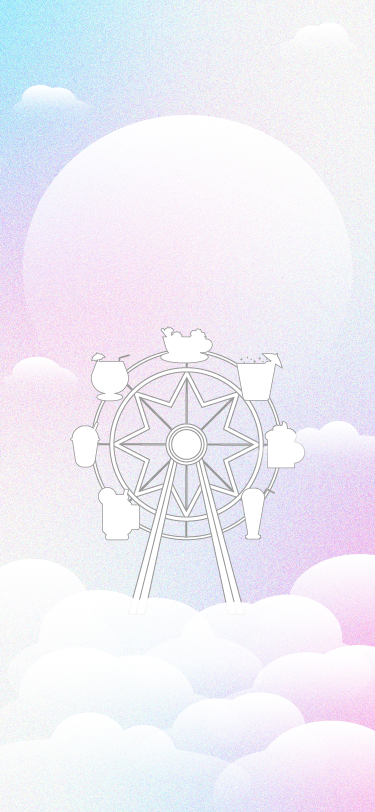
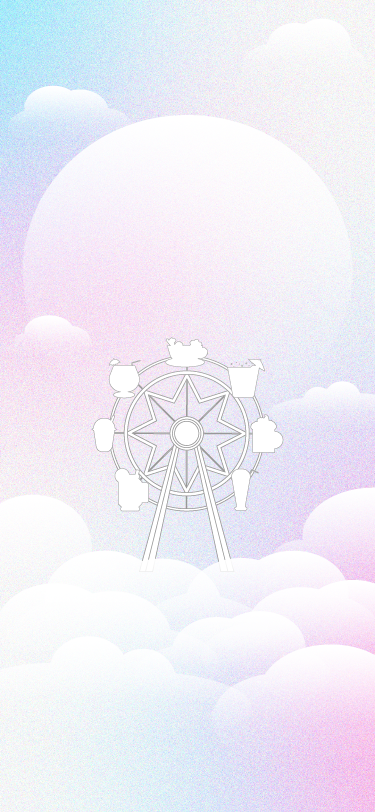
แก้รายละเอียดเพิ่มเติม เพราะบางหน้ายังเกินอยู่ เลื่อนหัวข้อให้ขยับไปข้างบนมากขึ้น ใส่แตะเพื่อไปต่อ พอแตะแล้วให้ขึ้นมาทีเดียวเลย

diff --git a/style.css b/style.css
@@ -50,6 +50,8 @@ body {
     flex-direction: column;
     align-items: center;
     position: relative;
+    justify-content: flex-start; /* เริ่มจากขอบบน */
+    padding-top: 20px;           /* ห่างจากขอบบน 20px (แก้เลขนี้ที่เดียว เปลี่ยนทั้งเว็บ!) */
 }
 
 /* --- ส่วนหัว (Header) --- */
@@ -643,9 +645,9 @@ body {
 
 /* รูปน้องแก้วกอดเมฆ */
 .cup-img-q10 {
-    width: 350px; /* ปรับขนาดรูปตามความเหมาะสม */
+    width: 270px; /* ปรับขนาดรูปตามความเหมาะสม */
     height: auto;
-    margin-top: -60px;
+    margin-top: -50px;
     margin-bottom: -10px;
     filter: drop-shadow(0 4px 6px rgba(0,0,0,0.1));
 }
@@ -678,8 +680,8 @@ body {
 }
 
 .page-q10 .next-btn {
-    margin-top: -80px;     /* เว้นห่างจากปุ่มตัวเลือกล่าสุด */
-    margin-bottom: -20px;  /* เว้นห่างจากขอบล่างจอ */
+    margin-top: 30px;     /* เว้นห่างจากปุ่มตัวเลือกล่าสุด */
+    margin-bottom: 0px;  /* เว้นห่างจากขอบล่างจอ */
     z-index: 10;          /* ให้ลอยอยู่เหนือทุกอย่าง */
     
     /* ถ้าอยากให้ปุ่มดูเด่นเหมือนในรูป */
@@ -1099,11 +1101,11 @@ body {
 /* ข้อความ "สวัสดี (ชื่อ)" */
 .greeting-text {
     font-family: 'IBM Plex Sans Thai', sans-serif;
-    font-size: 35px; /* ปรับขนาดตัวหนังสือตรงนี้ */
+    font-size: 30px; /* ปรับขนาดตัวหนังสือตรงนี้ */
     font-weight: 400;
     color: #000;
     text-align: center;
-    margin-top: -65px;
+    margin-top: -70px;
     margin-bottom: 50px; /* ระยะห่างจากปุ่ม */
     
     /* Animation ให้ข้อความค่อยๆ โผล่มา */
@@ -1166,6 +1168,14 @@ body {
     margin-top: 0;
 }
 
+/* แต่งคำใบ้ให้แตะหน้าจอ */
+.tap-hint {
+    font-size: 14px;
+    color: #888888;
+    margin-bottom: 22px;
+    text-align: center;
+}
+
 /* หัวข้อใหญ่ */
 .story-heading {
     font-family: 'IBM Plex Sans Thai', sans-serif;
@@ -1191,7 +1201,7 @@ body {
 
 /* ปุ่มถัดไป */
 .page-story1 .next-btn {
-    margin-top: 20px;
+    margin-top: 0px;
     background-color: white;
     color: #000;
     box-shadow: 0 4px 15px rgba(0,0,0,0.1);
@@ -1687,18 +1697,18 @@ body {
 
 .story-desc-static {
     font-family: 'IBM Plex Sans Thai', sans-serif;
-    font-size: 19px;
+    font-size: 17px;
     color: #000;
     text-align: center;
     margin-top: 0px;
 }
 .line-3 {
-    margin-top: 17px;    /* ดันให้ห่างจากรูป (Spacer) เยอะๆ */
-    font-size: 19px;   /* หรือจะปรับให้ใหญ่กว่าเพื่อนก็ได้ */
+    margin-top: -10px;    /* ดันให้ห่างจากรูป (Spacer) เยอะๆ */
+    font-size: 17px;   /* หรือจะปรับให้ใหญ่กว่าเพื่อนก็ได้ */
 }
 
 /* พื้นที่ว่างสำหรับรูปชิงช้าสวรรค์ (Spacer) */
-.wheel-spacer {
+.nowheel-spacer { 
     /* 👇 ปรับความสูงตรงนี้ เพื่อเว้นที่ให้พอดีกับรูปชิงช้าในพื้นหลัง */
     height: 300px; 
     width: 100%;
@@ -1777,7 +1787,7 @@ body {
 
 /* ปุ่มถัดไป */
 .page-afterpoem3 .next-btn {
-    margin-top: 10px;
+    margin-top: -10px;
     background-color: white;
     color: #000;
     box-shadow: 0 4px 15px rgba(0,0,0,0.1);
@@ -1795,12 +1805,14 @@ body {
     padding-bottom: 40px;
     min-height: 100vh;
     box-sizing: border-box;
+    /* ✅ เติม 2 บรรทัดนี้ลงไปครับ! */
+    justify-content: flex-start; /* สั่งให้เนื้อหาทั้งหมดเริ่มเรียงจากด้านบนสุด */
+    padding-top: 20px; /* <--- ตัวคุมระยะ! ยิ่งเลขน้อย ทั้งหน้าจะยิ่งลอยสูงขึ้น (ลองเปลี่ยนเป็น 20px หรือ 10px ดูได้ครับ) */
 }
 
 .app-title {
     font-family: var(--font-eng);
     font-size: 17px;
-    margin-top: -30px;
     margin-bottom: 20px;
     text-align: center;
     letter-spacing: 1px;
@@ -1832,7 +1844,7 @@ body {
 }
 .question-text {
     font-family: 'IBM Plex Sans Thai', sans-serif;
-    font-size: 19px;
+    font-size: 18px;
     font-weight: 400;
     margin-bottom: 5px;
     line-height: 1.4;
@@ -1869,7 +1881,7 @@ box-shadow: 0 4px 6px rgba(0,0,0,0.05);
 
 
 .option-card img {
-    width: 100%;
+    width: 95%;
     height: auto;
 }
 /* Highlight */
@@ -2187,7 +2199,7 @@ box-shadow: 0 4px 6px rgba(0,0,0,0.05);
     font-size: 20px;
     color: #333;
     font-weight: 400;
-    margin-bottom: 65px;
+    margin-bottom: 30px;
     text-align: center;
 }
 

diff --git a/story2.html b/story2.html
@@ -29,6 +29,9 @@
         <h1 class="app-title">GLASS OF EMOTION</h1>
 
         <div class="content-story2-wrapper">
+
+            <p id="tapHint" class="tap-hint" style="position: absolute; top: 269px; left: 0; width: 100%; text-align: center; margin: 0; z-index: 10;">
+    (แตะหน้าจอเพื่อไปต่อ)</p>
             
             <p class="story-desc hidden" id="text1">
                 มีเพียงคุณและพื้นที่ปลอดภัย
@@ -51,22 +54,18 @@
 
     <script src="script.js"></script>
     <script>
-        let tapCount = 0;
+        let isRevealed = false;
 
         function revealContent() {
-            tapCount++;
-
-            if (tapCount === 1) {
+            if (!isRevealed) {
+                // เรียกข้อความทุกบรรทัดและปุ่มให้ขึ้นมา "พร้อมกันทั้งหมด"
                 showElement('text1');
-            } 
-            else if (tapCount === 2) {
                 showElement('text2');
-            }
-            else if (tapCount === 3) {
                 showElement('text3');
-            }
-            else if (tapCount === 4) {
                 showElement('nextBtn');
+
+                // เปลี่ยนสถานะเพื่อบอกว่าเปิดแล้ว จะได้ไม่ทำงานซ้ำ
+                isRevealed = true;
             }
         }
 
@@ -79,7 +78,6 @@
         }
 
         function goToNextStep() {
-            // ไปหน้าคำถามข้อที่ 1 (หรือหน้าถัดไปที่คุณต้องการ)
             window.location.href = "story3.html"; 
         }
     </script>

diff --git a/afterpoem.html b/afterpoem.html
@@ -29,6 +29,9 @@
         <h1 class="app-title">GLASS OF EMOTION</h1>
 
         <div class="content-afterpoem-wrapper">
+            <p id="tapHint" class="tap-hint" style="position: absolute; top: 269px; left: 0; width: 100%; text-align: center; margin: 0; z-index: 10;">
+    (แตะหน้าจอเพื่อไปต่อ)</p>
+            
             
             <p class="story-desc hidden" id="text1">
                 เมื่อคุณอ่านบรรทัดสุดท้ายจบ
@@ -46,19 +49,17 @@
 
     <script src="script.js"></script>
     <script>
-        let tapCount = 0;
+        let isRevealed = false;
 
         function revealContent() {
-            tapCount++;
-
-            if (tapCount === 1) {
+            if (!isRevealed) {
+                // เรียกข้อความทุกบรรทัดและปุ่มให้ขึ้นมา "พร้อมกันทั้งหมด"
                 showElement('text1');
-            } 
-            else if (tapCount === 2) {
                 showElement('text2');
-            }
-            else if (tapCount === 3) {
                 showElement('nextBtn');
+
+                // เปลี่ยนสถานะเพื่อบอกว่าเปิดแล้ว จะได้ไม่ทำงานซ้ำ
+                isRevealed = true;
             }
         }
 

diff --git a/story1.html b/story1.html
@@ -29,7 +29,9 @@
         <h1 class="app-title">GLASS OF EMOTION</h1>
 
         <div class="content-story1-wrapper">
-            
+
+            <p id="tapHint" class="tap-hint">(แตะหน้าจอเพื่อไปต่อ)</p>
+
             <h2 class="story-heading">ณ ขณะนี้</h2>
 
             <p class="story-desc hidden" id="line1">
@@ -56,22 +58,18 @@
 
     <script src="script.js"></script>
     <script>
-        let tapCount = 0;
+        let isRevealed = false;
 
         function revealContent() {
-            tapCount++;
-
-            if (tapCount === 1) {
+            if (!isRevealed) {
+                // เรียกข้อความทุกบรรทัดและปุ่มให้ขึ้นมา "พร้อมกันทั้งหมด"
                 showElement('line1');
-            } 
-            else if (tapCount === 2) {
                 showElement('line2');
-            }
-            else if (tapCount === 3) {
                 showElement('line3');
-            }
-            else if (tapCount === 4) {
                 showElement('nextBtn');
+
+                // เปลี่ยนสถานะเพื่อบอกว่าเปิดแล้ว จะได้ไม่ทำงานซ้ำ
+                isRevealed = true;
             }
         }
 

diff --git a/afterpoem2.html b/afterpoem2.html
@@ -31,17 +31,17 @@
         <div class="content-afterpoem2-wrapper" id="mainContent">
             
             <div class="text-group-top">
-                <p class="story-desc-static fade-in-up" style="animation-delay: 0.5s;">
+                <p class="story-desc-static fade-in-up" style="font-size: 18px; animation-delay: 0.5s;">
                     ชิงช้าสวรรค์หน้าตาไม่คุ้นเคย
                 </p>
-                <p class="story-desc-static fade-in-up" style="animation-delay: 0.5s;">
+                <p class="story-desc-static fade-in-up" style="font-size: 18px; animation-delay: 0.5s;">
                     ปรากฏขึ้นท่ามกลางหมู่เมฆสีขาวนุ่ม
                 </p>
             </div>
 
             <div class="wheel-spacer"></div>
 
-            <p class="story-desc-static fade-in-up line-3" style="animation-delay: 0.5s;">
+            <p class="story-desc-static fade-in-up line-3" style="font-size: 18px; animation-delay: 0.5s;">
                 ราวกับกำลังรอให้คุณก้าวเข้าไปสำรวจ
             </p>
 

diff --git a/footprint.html b/footprint.html
@@ -25,8 +25,9 @@
         <div class="progress-container">
             <div class="progress-bar" style="width: 50%;"></div>
         </div>
-
-        <div class="question-section hidden-first" style="margin-top: 40px;">
+        <p id="tapHint" class="tap-hint" style="position: absolute; top: 120px; left: 0; width: 100%; text-align: center; margin: 0; z-index: 10;">
+    (แตะหน้าจอเพื่อไปต่อ)</p>
+        <div class="question-section hidden-first" style="margin-top: 60px;">
             <h2 class="question-text" style="font-size: 20px;">จนถึงตอนนี้</h2>
         </div>
 

diff --git a/rest.html b/rest.html
@@ -25,7 +25,8 @@
         <div class="progress-container">
             <div class="progress-bar" style="width: 50%;"></div>
         </div>
-
+        <p id="tapHint" class="tap-hint" style="position: absolute; top: 120px; left: 0; width: 100%; text-align: center; margin: 0; z-index: 10;">
+    (แตะหน้าจอเพื่อไปต่อ)</p>
         <div class="content-center-wrapper">
             <h2 id="restText" class="rest-text hidden-first">พักสักหน่อย</h2>
         </div>
